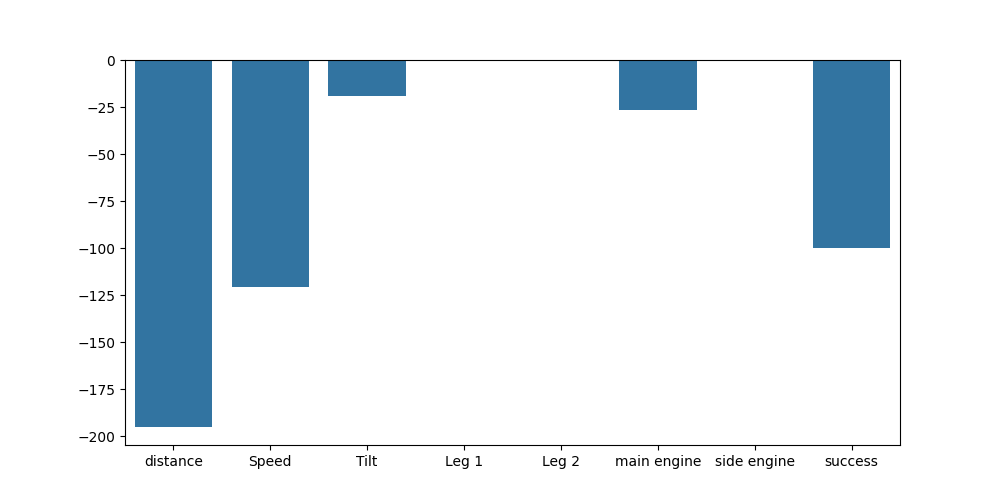
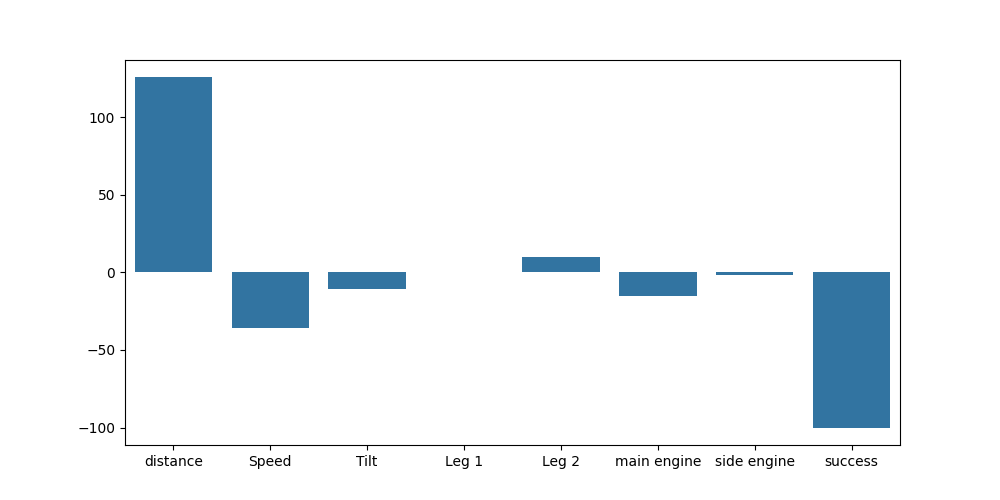
Weighted and masked multi-objective advantage

diff --git a/ppo/ppo.py b/ppo/ppo.py
@@ -92,7 +92,7 @@ class PPOLogger:
     
         frames = frames.reshape(1, *frames.shape)
         frames = torch.Tensor(frames).permute([0, 1, 4, 2, 3])
-        self.writer.add_video(tag = "video", vid_tensor = frames, fps = 24)
+        self.writer.add_video(tag = "video", vid_tensor = frames[:,::3], fps = 24)
 
 class PPO:
     def __init__(
@@ -370,11 +370,11 @@ class PPO:
         for step in range(self.num_rollout_steps):
             # Store current observation
             collected_observations[step] = next_observation
-            collected_observations[step + self.num_rollout_steps] = next_observation
+            # collected_observations[step + self.num_rollout_steps] = next_observation
             is_episode_terminated[step] = is_next_observation_terminal
             is_episode_truncated[step] = is_next_observation_truncated
-            is_episode_terminated[step + self.num_rollout_steps] = is_next_observation_terminal
-            is_episode_truncated[step + self.num_rollout_steps] = is_next_observation_truncated
+            # is_episode_terminated[step + self.num_rollout_steps] = is_next_observation_terminal
+            # is_episode_truncated[step + self.num_rollout_steps] = is_next_observation_truncated
 
             change_weights = torch.logical_or(is_next_observation_terminal.type(torch.bool), is_next_observation_truncated.type(torch.bool))
             if self.reward_size != 1 and change_weights.any():
@@ -390,35 +390,27 @@ class PPO:
                     next_observation, action, unit_weights
                 )
                 value = self.agent.estimate_value_from_observation(next_observation, weights)
-                value_unit = self.agent.estimate_value_from_observation(next_observation, unit_weights)
+                # value_unit = self.agent.estimate_value_from_observation(next_observation, unit_weights)
 
-                observation_values[step] = value.reshape(-1, )
-                observation_values[step + self.num_rollout_steps] = value_unit.reshape(-1, )
+                observation_values[step] = value
+                # observation_values[step + self.num_rollout_steps] = value_unit
             actions[step] = action
             action_log_probabilities[step] = logprob
-            actions[step + self.num_rollout_steps] = action
-            action_log_probabilities[step + self.num_rollout_steps] = logprob_unit
+            # actions[step + self.num_rollout_steps] = action
+            # action_log_probabilities[step + self.num_rollout_steps] = logprob_unit
 
             # Execute the environment and store the data
             next_observation, reward, terminations, truncations, infos = self.envs.step(
                 action.cpu().numpy()
             )
             self._global_step += self.num_envs
-            rewards[step] = torch.sum(weights * torch.as_tensor(reward, device=self.device), dim = 1)
-            rewards[step + self.num_rollout_steps] =torch.sum(unit_weights * torch.as_tensor(reward, device=self.device), dim = 1)
+            rewards[step] = torch.as_tensor(reward, device=self.device)
+            # rewards[step + self.num_rollout_steps] = torch.as_tensor(reward, device=self.device)
 
             is_next_observation_terminal = terminations
             is_next_observation_truncated = truncations
             rollout_weights[step] = weights
-            rollout_weights[step + self.num_rollout_steps] = unit_weights
-
-            # if len(overall_infos) == 0 and len(infos) > 0:
-            #     overall_infos = infos
-            #     overall_infos['count'] = is_next_observation_terminal
-            # else:
-            #     for key in infos:
-            #         overall_infos[key]+=infos[key]
-
+            # rollout_weights[step + self.num_rollout_steps] = unit_weights
             
             next_observation, is_next_observation_terminal, is_next_observation_truncated = (
                 torch.as_tensor(
@@ -443,7 +435,7 @@ class PPO:
         with torch.no_grad():
             next_value = self.agent.estimate_value_from_observation(
                 next_observation, weights
-            ).reshape(self.num_envs, )
+            ).reshape(self.num_envs, self.reward_size)
 
             advantages, returns = self.compute_advantages(
                 rewards[:self.num_rollout_steps],
@@ -456,7 +448,7 @@ class PPO:
             )
             next_value_unit = self.agent.estimate_value_from_observation(
                 next_observation, unit_weights
-            ).reshape(self.num_envs)
+            ).reshape(self.num_envs, self.reward_size)
 
             unit_advantages, unit_returns = self.compute_advantages(
                 rewards[self.num_rollout_steps:],
@@ -467,6 +459,7 @@ class PPO:
                 is_next_observation_terminal,
                 is_next_observation_truncated,
             )
+
 
             advantages = torch.vstack([advantages, unit_advantages])
             returns = torch.vstack([returns, unit_returns])
@@ -518,14 +511,14 @@ class PPO:
         action_log_probabilities = torch.zeros(
             (self.num_rollout_steps*2, self.num_envs)
         ).to(self.device)
-        rewards = torch.zeros((self.num_rollout_steps*2, self.num_envs)).to(self.device)
+        rewards = torch.zeros((self.num_rollout_steps*2, self.num_envs, self.reward_size)).to(self.device)
         is_episode_terminated = torch.zeros((self.num_rollout_steps*2, self.num_envs)).to(
             self.device
         )
         is_episode_truncated = torch.zeros((self.num_rollout_steps*2, self.num_envs)).to(
             self.device
         )
-        observation_values = torch.zeros((self.num_rollout_steps*2, self.num_envs)).to(
+        observation_values = torch.zeros((self.num_rollout_steps*2, self.num_envs, self.reward_size)).to(
             self.device
         )
         rollout_weights = torch.zeros((self.num_rollout_steps*2, self.num_envs, self.reward_size)).to(
@@ -572,38 +565,29 @@ class PPO:
             if t == T - 1:
                 # For the final step, use the provided next_value and flags.
                 # For each environment: if next state is terminal, no bootstrapping.
-                cont = torch.where(
-                    is_next_observation_terminal.bool(),
-                    torch.zeros_like(next_value),
-                    torch.ones_like(next_value)
-                )
+                cont = is_next_observation_terminal
+                # cont[is_next_observation_terminal.bool()] = torch.zeros_like(is_next_observation_terminal)
                 # If truncated (and not terminal), reset gae_running.
                 mask_trunc = is_next_observation_truncated.bool() & (~is_next_observation_terminal.bool())
-                gae_running = torch.where(mask_trunc, torch.zeros_like(gae_running), gae_running)
+                # gae_running = torch.where(mask_trunc, torch.zeros_like(gae_running), gae_running)
+                gae_running[mask_trunc] = 0
                 # Bootstrap value: use next_value if not terminal, else 0.
-                bootstrap = torch.where(
-                    is_next_observation_terminal.bool(),
-                    torch.zeros_like(next_value),
-                    next_value
-                )
+                bootstrap = next_value
+                bootstrap[is_next_observation_terminal.bool()] = 0
             else:
                 # For intermediate steps, use flags from the next time step (t+1).
-                cont = torch.where(
-                    is_observation_terminal[t + 1].bool(),
-                    torch.zeros_like(values[t + 1]),
-                    torch.ones_like(values[t + 1])
-                )
+                # cont = torch.ones_like(is_next_observation_terminal)
+                cont = is_observation_terminal[t + 1]
+                # cont[is_observation_terminal[t + 1].bool()] = torch.zeros_like(is_observation_terminal[t + 1].bool())
+                
                 mask_trunc = is_observation_truncated[t + 1].bool() & (~is_observation_terminal[t + 1].bool())
-                gae_running = torch.where(mask_trunc, torch.zeros_like(gae_running), gae_running)
-                bootstrap = torch.where(
-                    is_observation_terminal[t + 1].bool(),
-                    torch.zeros_like(values[t + 1]),
-                    values[t + 1]
-                )
+                gae_running[mask_trunc] = 0
+                bootstrap = values[t + 1]
+                bootstrap[is_observation_terminal[t + 1].bool()] = 0
             
             # Compute the TD error (delta) elementwise.
-            delta = rewards[t] + self.gamma * bootstrap * cont - values[t]
-            gae_running = delta + self.gamma * self.gae_lambda * cont * gae_running
+            delta = rewards[t] + self.gamma * cont.reshape(-1, 1) * bootstrap  - values[t]
+            gae_running = delta + self.gamma * self.gae_lambda * cont.reshape(-1, 1) * gae_running
             advantages[t] = gae_running
 
         returns = advantages + values
@@ -626,9 +610,9 @@ class PPO:
         )
         batch_log_probabilities = action_log_probabilities.reshape(-1)
         batch_actions = actions.reshape((-1,) + self.envs.single_action_space.shape)
-        batch_advantages = advantages.reshape(-1, 1)
-        batch_returns = returns.reshape(-1, 1)
-        batch_values = observation_values.reshape(-1, 1)
+        batch_advantages = advantages.reshape(-1, self.reward_size)
+        batch_returns = returns.reshape(-1, self.reward_size)
+        batch_values = observation_values.reshape(-1, self.reward_size)
         batch_weights = weights.reshape(-1, self.reward_size)
 
         return (
@@ -699,8 +683,8 @@ class PPO:
         normalization and gradient clipping for further stability.
         """
         # Prepare for minibatch updates
-        batch_size = self.num_rollout_steps * self.num_envs*2
-        assert collected_observations.shape[0] == batch_size
+        batch_size = self.num_rollout_steps * self.num_envs
+        assert collected_observations.shape[0] == batch_size*2
         batch_indices = np.arange(batch_size)
 
         # Track clipping for monitoring policy update magnitude
@@ -756,12 +740,47 @@ class PPO:
                         .item()
                     ]
 
-                minibatch_advantages = computed_advantages[minibatch_indices]
+                # minibatch_advantages = computed_advantages[minibatch_indices]
+                # if self.normalize_advantages:
+                #     # Normalize advantages to reduce variance in updates
+                #     minibatch_advantages = (
+                #         minibatch_advantages - minibatch_advantages.mean(dim = 0)
+                #     ) / (minibatch_advantages.std(dim = 0) + 1e-8)
+                # minibatch_advantages= collected_weights[minibatch_indices] * minibatch_advantages
+
+
+                # Get the raw advantages and corresponding weights for this minibatch.
+                minibatch_advantages = computed_advantages[minibatch_indices]  # shape: [N, d]
+                weights = collected_weights[minibatch_indices]                # shape: [N, d]
+
+                # Multiply raw advantage by the weight to get the weighted advantages.
+                weighted_advantages = weights * minibatch_advantages  # shape: [N, d]
+
                 if self.normalize_advantages:
-                    # Normalize advantages to reduce variance in updates
-                    minibatch_advantages = (
-                        minibatch_advantages - minibatch_advantages.mean()
-                    ) / (minibatch_advantages.std() + 1e-8)
+                    eps = 1e-8  # small constant to avoid division by zero
+                    # Create a mask: 1 where weight is nonzero, 0 otherwise.
+                    mask = (weights != 0).float()  # shape: [N, d]
+
+                    # Compute the number of nonzero entries per reward component.
+                    count = mask.sum(dim=0)  # shape: [d]
+
+                    # Compute per-component masked mean.
+                    mean = (weighted_advantages * mask).sum(dim=0) / (count + eps)  # shape: [d]
+
+                    # Compute the differences and then the masked standard deviation.
+                    diff = (weighted_advantages - mean.unsqueeze(0)) * mask  # shape: [N, d]
+                    std = torch.sqrt((diff ** 2).sum(dim=0) / (count + eps))    # shape: [d]
+
+                    # Apply normalization: subtract mean, divide by std, and multiply by mask to keep zeros.
+                    normalized_advantages = ((weighted_advantages - mean.unsqueeze(0)) /
+                                            (std.unsqueeze(0) + eps)) * mask  # shape: [N, d]
+
+                    minibatch_advantages = normalized_advantages
+                else:
+                    minibatch_advantages = weighted_advantages
+
+                eps = 1e-8  # to avoid division by zero
+
                 policy_gradient_loss = self.calculate_policy_gradient_loss(
                     minibatch_advantages, probability_ratio.reshape(-1, 1)
                 )

diff --git a/ppo/agent.py b/ppo/agent.py
@@ -183,12 +183,12 @@ class ContinuousAgent(BaseAgent):
         # self.actor_mean = ActorFiLM(np.array(envs.single_observation_space.shape).prod(), self.weight_vec_size,  np.prod(envs.single_action_space.shape))
         self.critic = nn.Sequential(
             layer_init(
-                nn.Linear(np.array(envs.single_observation_space.shape).prod() + self.weight_vec_size, 128)
+                nn.Linear(np.array(envs.single_observation_space.shape).prod(), 128)
             ),
             nn.Tanh(),
             layer_init(nn.Linear(128, 128)),
             nn.Tanh(),
-            layer_init(nn.Linear(128, 1), std=1.0),
+            layer_init(nn.Linear(128, self.reward_size), std=1.0),
         )
         self.actor_mean = nn.Sequential(
             layer_init(
@@ -211,15 +211,15 @@ class ContinuousAgent(BaseAgent):
 
     def estimate_value_from_observation(self, observation, weights = None):
         
-        if weights is not None:
-            assert weights.shape[0] == observation.shape[0]
+        # if weights is not None:
+        #     assert weights.shape[0] == observation.shape[0]
 
-        if self.weight_vec_size == 0:
-            observation = observation
-        elif weights is None:
-            observation = torch.hstack([observation, torch.ones((observation.shape[0], self.weight_vec_size))])
-        else:
-            observation =  torch.hstack([observation, weights])
+        # if self.weight_vec_size == 0:
+        #     observation = observation
+        # elif weights is None:
+        #     observation = torch.hstack([observation, torch.ones((observation.shape[0], self.weight_vec_size))])
+        # else:
+        #     observation =  torch.hstack([observation, weights])
 
         return self.critic(observation)
 
@@ -288,7 +288,7 @@ class ContinuousAgent(BaseAgent):
         if self.weight_vec_size == 0:
             observation = observations
         elif weights is None:
-            observations = torch.hstack([observations, 1/self.weight_vec_size * torch.ones((observation.shape[0], self.weight_vec_size))])
+            observations = torch.hstack([observations, torch.ones((observations.shape[0], self.weight_vec_size))])
         else:
             observations =  torch.hstack([observations, weights])
 

diff --git a/main.py b/main.py
@@ -12,14 +12,14 @@ import torch
 
 env =SyncVectorEnv(
 [
-    lambda: LunarLander(continuous = True),
+    lambda: gym.wrappers.TimeLimit(LunarLander(continuous = True), max_episode_steps = 500)
 ],
 reward_size = 8
 )
 
 
 eval_agent = ContinuousAgent(env, reward_size=8)
-eval_agent.load_state_dict(torch.load("runs/LunarLander__main_ppo__2025-02-18 19:33:54.083746__0/main_ppo.rl_model"))
+eval_agent.load_state_dict(torch.load("runs/LunarLander__main_ppo__2025-02-19 21:43:35.089738__0/main_ppo.rl_model"))
 eval_agent.eval()
 env = LunarLander(continuous = True)
 
@@ -29,7 +29,7 @@ value_function = []
 done = False
 trunc = False
 weight = np.zeros(8)
-weight[[0, 1]] = 1
+weight[[5, 6]] = 1
 while not done and not trunc:
     action, value = eval_agent.predict(obs, weight, deterministic=True)
     obs, rew, done, trunc, infos = env.step(action[0])
@@ -57,16 +57,16 @@ sns.barplot(df.sum())
 plt.savefig("BarPlot.png")
 
 
-df = pd.DataFrame(np.array(value_function), columns = ["distance", "Speed", "Tilt", "Leg 1", "Leg 2", "main engine", "side engine", "success"])
+# df = pd.DataFrame(np.array(value_function), columns = ["distance", "Speed", "Tilt", "Leg 1", "Leg 2", "main engine", "side engine", "success"])
 
 
-plt.figure(figsize = (10, 5))
-df.iloc[:-1].plot()
-plt.savefig("ValueDecom.png")
+# plt.figure(figsize = (10, 5))
+# df.iloc[:-1].plot()
+# plt.savefig("ValueDecom.png")
 
-plt.figure(figsize = (10, 5))
-sns.barplot(df.sum())
-plt.savefig("ValueBarPlot.png")
+# plt.figure(figsize = (10, 5))
+# sns.barplot(df.sum())
+# plt.savefig("ValueBarPlot.png")
 
 
 
